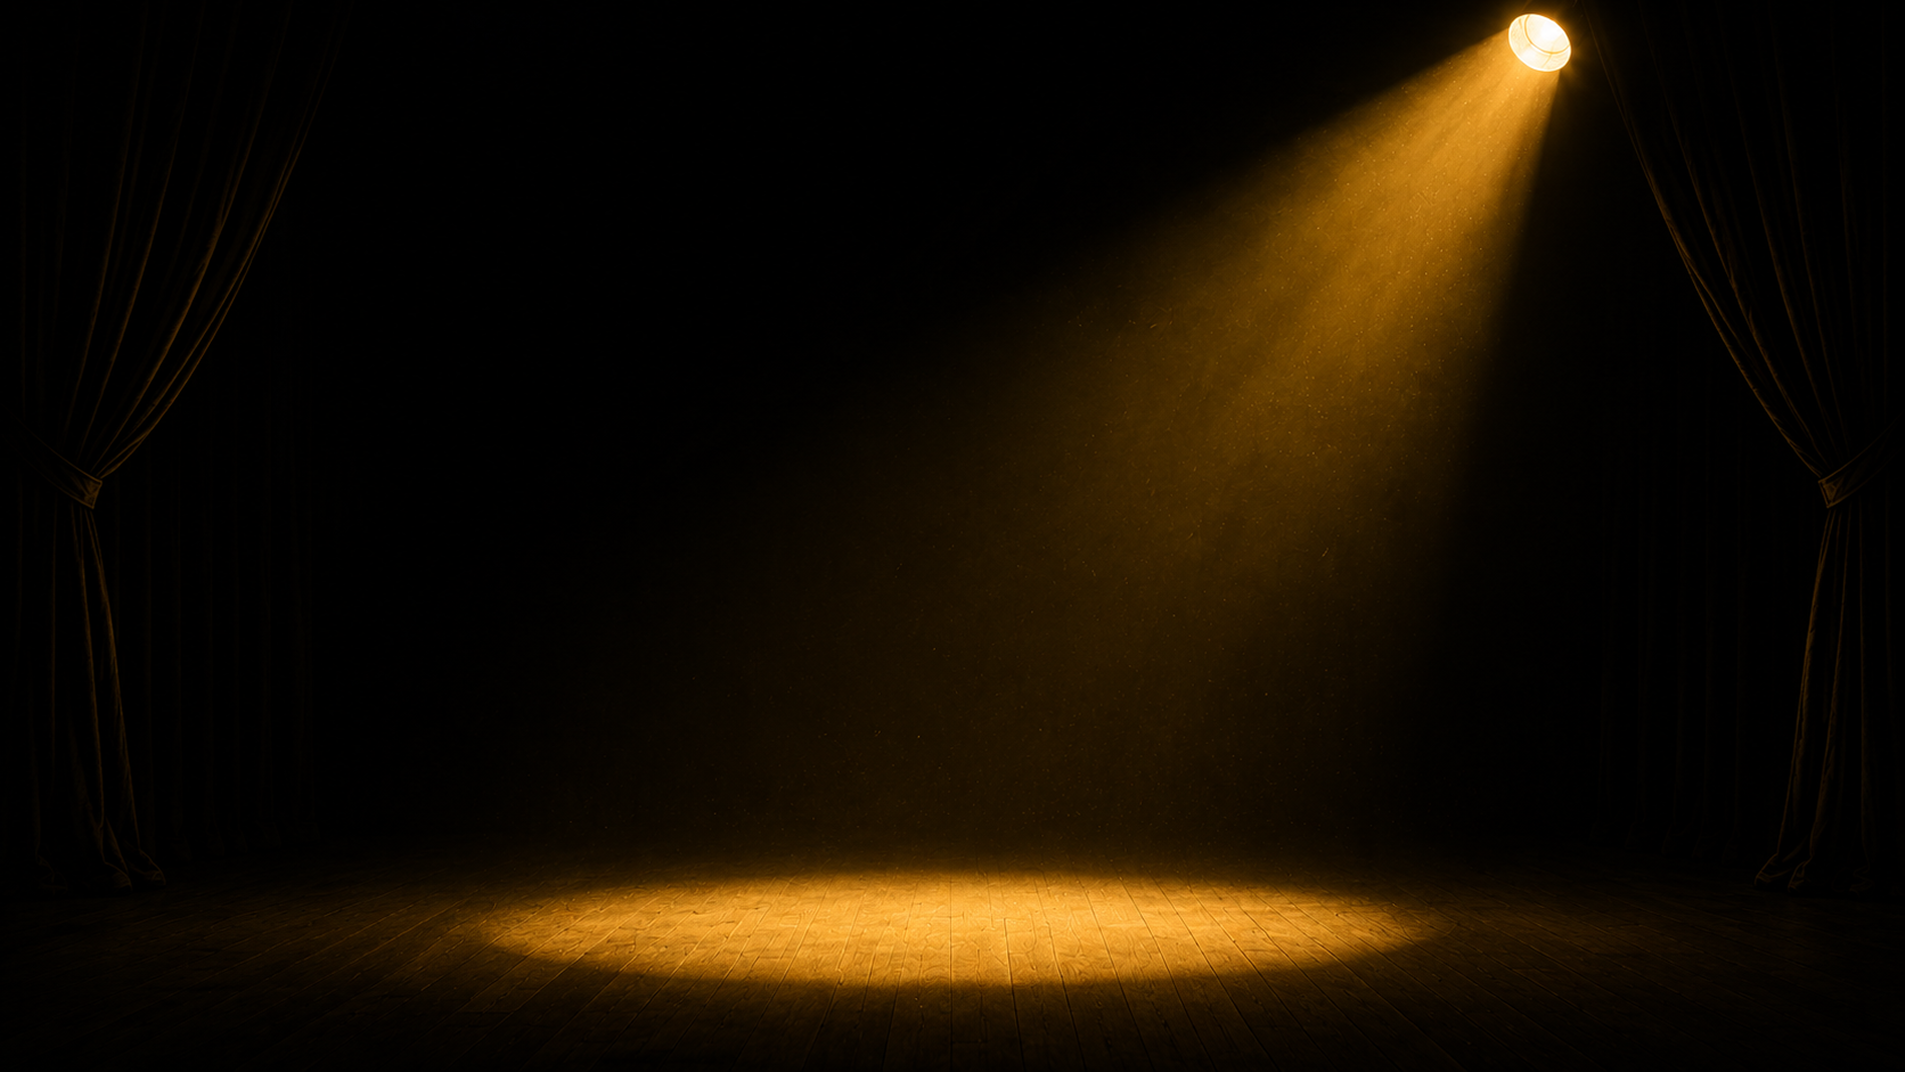
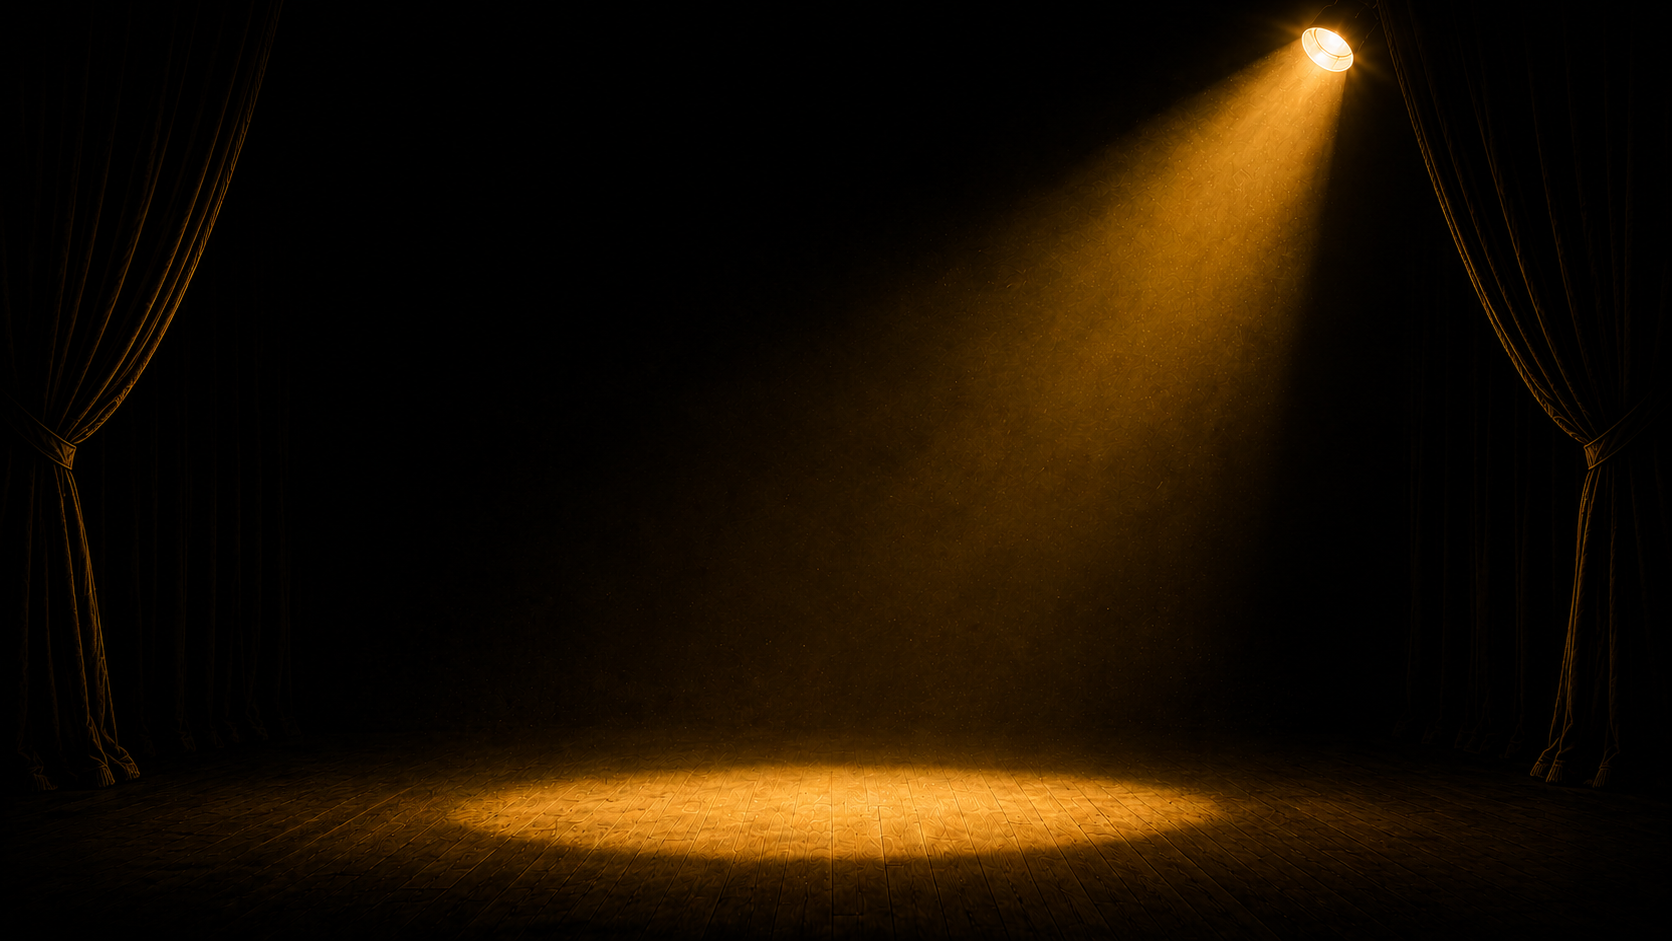
profile 완성

diff --git a/index.html b/index.html
@@ -160,22 +160,86 @@
         </div>
       </section>
       <section id="profile">
-        PROFILE
-        <ul>
-          <li>
-            <h1>CAREER</h1>
-            <p>22.01 ~ 25.06</p>
-            <p>재직 회사 : (주)오마뎅</p>
-            <p>재직 부서 : 마케팅 기획팀</p>
-          </li>
-          <li><h1>CORE WORKS</h1></li>
-          <li><h1>ACHIEVEMENTS</h1></li>
-        </ul>
+        <div class="container">
+          <div class="profile_inner">
+            <h1>PROFILE</h1>
+
+            <ul>
+              <li>
+                <h2>CAREER</h2>
+
+                <p>22.01 ~ 25.06</p>
+                <p>재직 회사 : (주)오마뎅</p>
+                <p>재직 부서 : 마케팅 기획팀</p>
+              </li>
+
+              <li>
+                <h2>CORE WORKS</h2>
+
+                <p>1. 인스타그램 콘텐츠 기획 및 제작</p>
+                <p>2. 네이버 스토어 상세페이지 제작</p>
+                <p>3. 브랜드 행사 기획 및 홍보</p>
+              </li>
+
+              <li>
+                <h2>ACHIEVEMENTS</h2>
+
+                <p>1. SNS 팔로워 증가</p>
+                <p>2. 브랜드 인지도 향상</p>
+                <p>3. 행사 참여율 상승</p>
+              </li>
+            </ul>
+          </div>
+        </div>
       </section>
-      <section id="works"></section>
+      <section id="works">
+        <div class="container">
+          <div class="works_inner">
+            <ul>
+              <li>
+                <a href="#">
+                  <p>01</p>
+                  <h1>Marketing</h1>
+                  <p>Career / Core Work</p>
+                  <p>view</p>
+                </a>
+              </li>
+              <li>
+                <a href="#">
+                  <p>02</p>
+                  <h1>Design</h1>
+                  <p>Artwork / Banner / Event Page / Poster</p>
+                  <p>view</p>
+                </a>
+              </li>
+              <li>
+                <a href="#">
+                  <p>03</p>
+                  <h1>Website</h1>
+                  <p>Team Project / Rebuild</p>
+                  <p>view</p>
+                </a>
+              </li>
+              <li>
+                <a href="#">
+                  <p>04</p>
+                  <h1>Film</h1>
+                  <p>Opening / Commential / Short Art</p>
+                  <p>view</p>
+                </a>
+              </li>
+            </ul>
+          </div>
+        </div>
+      </section>
     </main>
     <footer id="contact"></footer>
     <script src="https://cdn.jsdelivr.net/npm/swiper@11/swiper-bundle.min.js"></script>
+    <!-- gsap -->
+    <script src="https://cdn.jsdelivr.net/npm/gsap@3.12.5/dist/gsap.min.js"></script>
+
+    <!-- scrolltrigger -->
+    <script src="https://cdn.jsdelivr.net/npm/gsap@3.12.5/dist/ScrollTrigger.min.js"></script>
     <script>
       // 모바일 메뉴
       const button = document.querySelector("#mNav i");
@@ -258,6 +322,38 @@
         angle -= 72;
         rotateCarousel();
       }, 3000);
+
+      gsap.registerPlugin(ScrollTrigger);
+
+      /* PROFILE 제목 */
+      gsap.from(".profile_inner > h1", {
+        scrollTrigger: {
+          trigger: "#profile",
+          start: "top 70%",
+        },
+
+        y: 100,
+        opacity: 0,
+
+        duration: 1.2,
+        ease: "power3.out",
+      });
+
+      /* 아래 내용 */
+      gsap.from(".profile_inner ul", {
+        scrollTrigger: {
+          trigger: "#profile",
+          start: "top 65%",
+        },
+
+        y: 100,
+        opacity: 0,
+
+        duration: 1.2,
+        delay: 0.4,
+
+        ease: "power3.out",
+      });
     </script>
   </body>
 </html>

diff --git a/assets/css/style.css b/assets/css/style.css
@@ -1,18 +1,25 @@
 /* layout */
-* {
-  background-color: #000000;
-}
 #header {
   position: fixed;
+  top: 0;
+  left: 0;
+
+  width: 100%;
+
   display: flex;
+  justify-content: space-between;
+  align-items: center;
+
+  padding: 20px 30px;
+
   font-size: 18px;
   font-weight: 600;
-  justify-content: space-between;
-  padding: 20px 30px;
+
+  z-index: 999;
 }
 
 .container {
-  width: 1520px;
+  width: 1513px;
 }
 
 /* header */
@@ -21,7 +28,7 @@
   position: fixed;
   right: 0;
   top: 0;
-  z-index: 300;
+  z-index: 9999999;
 }
 #mNav i {
   color: #fff;
@@ -383,4 +390,126 @@ html {
 body {
   margin: 0;
   overflow-x: hidden;
+}
+/* *****profile****** */
+#profile {
+  width: 100%;
+  aspect-ratio: 1920 / 2080;
+
+  background: url("../img/main_about.png") no-repeat center top;
+
+  background-size: cover;
+
+  position: relative;
+  overflow: hidden;
+
+  display: flex;
+  justify-content: center;
+  align-items: center;
+
+  background-size: 100% auto;
+}
+
+.container {
+  width: 100%;
+  max-width: 1400px;
+
+  margin: 0 auto;
+  padding: 0 40px;
+}
+
+.profile_inner {
+  position: relative;
+  z-index: 2;
+  top: -303px;
+
+  width: 100%;
+  color: #fff;
+}
+
+/* PROFILE 제목 */
+.profile_inner > h1 {
+  text-align: center;
+
+  font-size: 50px;
+  font-style: italic;
+  font-weight: 700;
+
+  letter-spacing: 8px;
+
+  margin-bottom: 110px;
+
+  font-family: "Cormorant Garamond", serif;
+}
+
+/* 3개 영역 */
+.profile_inner ul {
+  display: flex;
+  justify-content: center;
+  align-items: flex-start;
+
+  gap: 50px;
+}
+
+/* 각 영역 */
+.profile_inner ul li {
+  width: 320px;
+
+  position: relative;
+  left: 60px;
+  text-align: left;
+}
+
+/* 세로 구분선 */
+.profile_inner ul li:not(:last-child)::after {
+  content: "";
+
+  position: absolute;
+  top: 0;
+  right: -25px;
+
+  width: 1px;
+  height: 180px;
+
+  background: rgba(255, 255, 255, 0.25);
+}
+
+/* 소제목 */
+.profile_inner ul li h2 {
+  font-size: 22px;
+  font-weight: 400;
+
+  letter-spacing: 2px;
+
+  color: #ff9b32;
+
+  margin-bottom: 20px;
+}
+
+/* 내용 */
+.profile_inner ul li p {
+  font-size: 17px;
+  font-weight: 100;
+
+  line-height: 2;
+
+  color: rgba(255, 255, 255, 0.82);
+}
+
+/* *****works******* */
+#works {
+  background-color: aquamarine;
+}
+.works_inner ul {
+  display: flex;
+  justify-content: space-between;
+}
+.works_inner ul li {
+  flex: 1;
+}
+.works_inner ul li:nth-child(1) {
+  background: url();
+}
+.works_inner ul li a {
+  color: #c98a5b;
 }

diff --git a/assets/css/responsive.css b/assets/css/responsive.css
@@ -113,3 +113,47 @@
     right: -12vw;
   }
 }
+
+/* profile */
+@media (max-width: 960px) {
+  .profile_inner {
+    top: -175px;
+  }
+  .profile_inner > h1 {
+    font-size: 40px;
+  }
+  .profile_inner ul li h2 {
+    font-size: 20px;
+  }
+  .profile_inner ul li p {
+    font-size: 16px;
+  }
+  .profile_inner ul li:not(:last-child)::after {
+    height: 150px;
+  }
+}
+@media (max-width: 830px) {
+  #profile {
+    min-height: 100vh;
+
+    background: url("../img/main_about2.png") no-repeat center top;
+
+    background-size: cover;
+  }
+  .profile_inner {
+    top: 92px;
+  }
+  .profile_inner ul {
+    flex-direction: column;
+    align-items: center;
+  }
+  .profile_inner ul li {
+    text-align: center;
+  }
+  .profile_inner ul li:not(:last-child)::after {
+    display: none;
+  }
+}
+
+@media (max-width: 480px) {
+}
